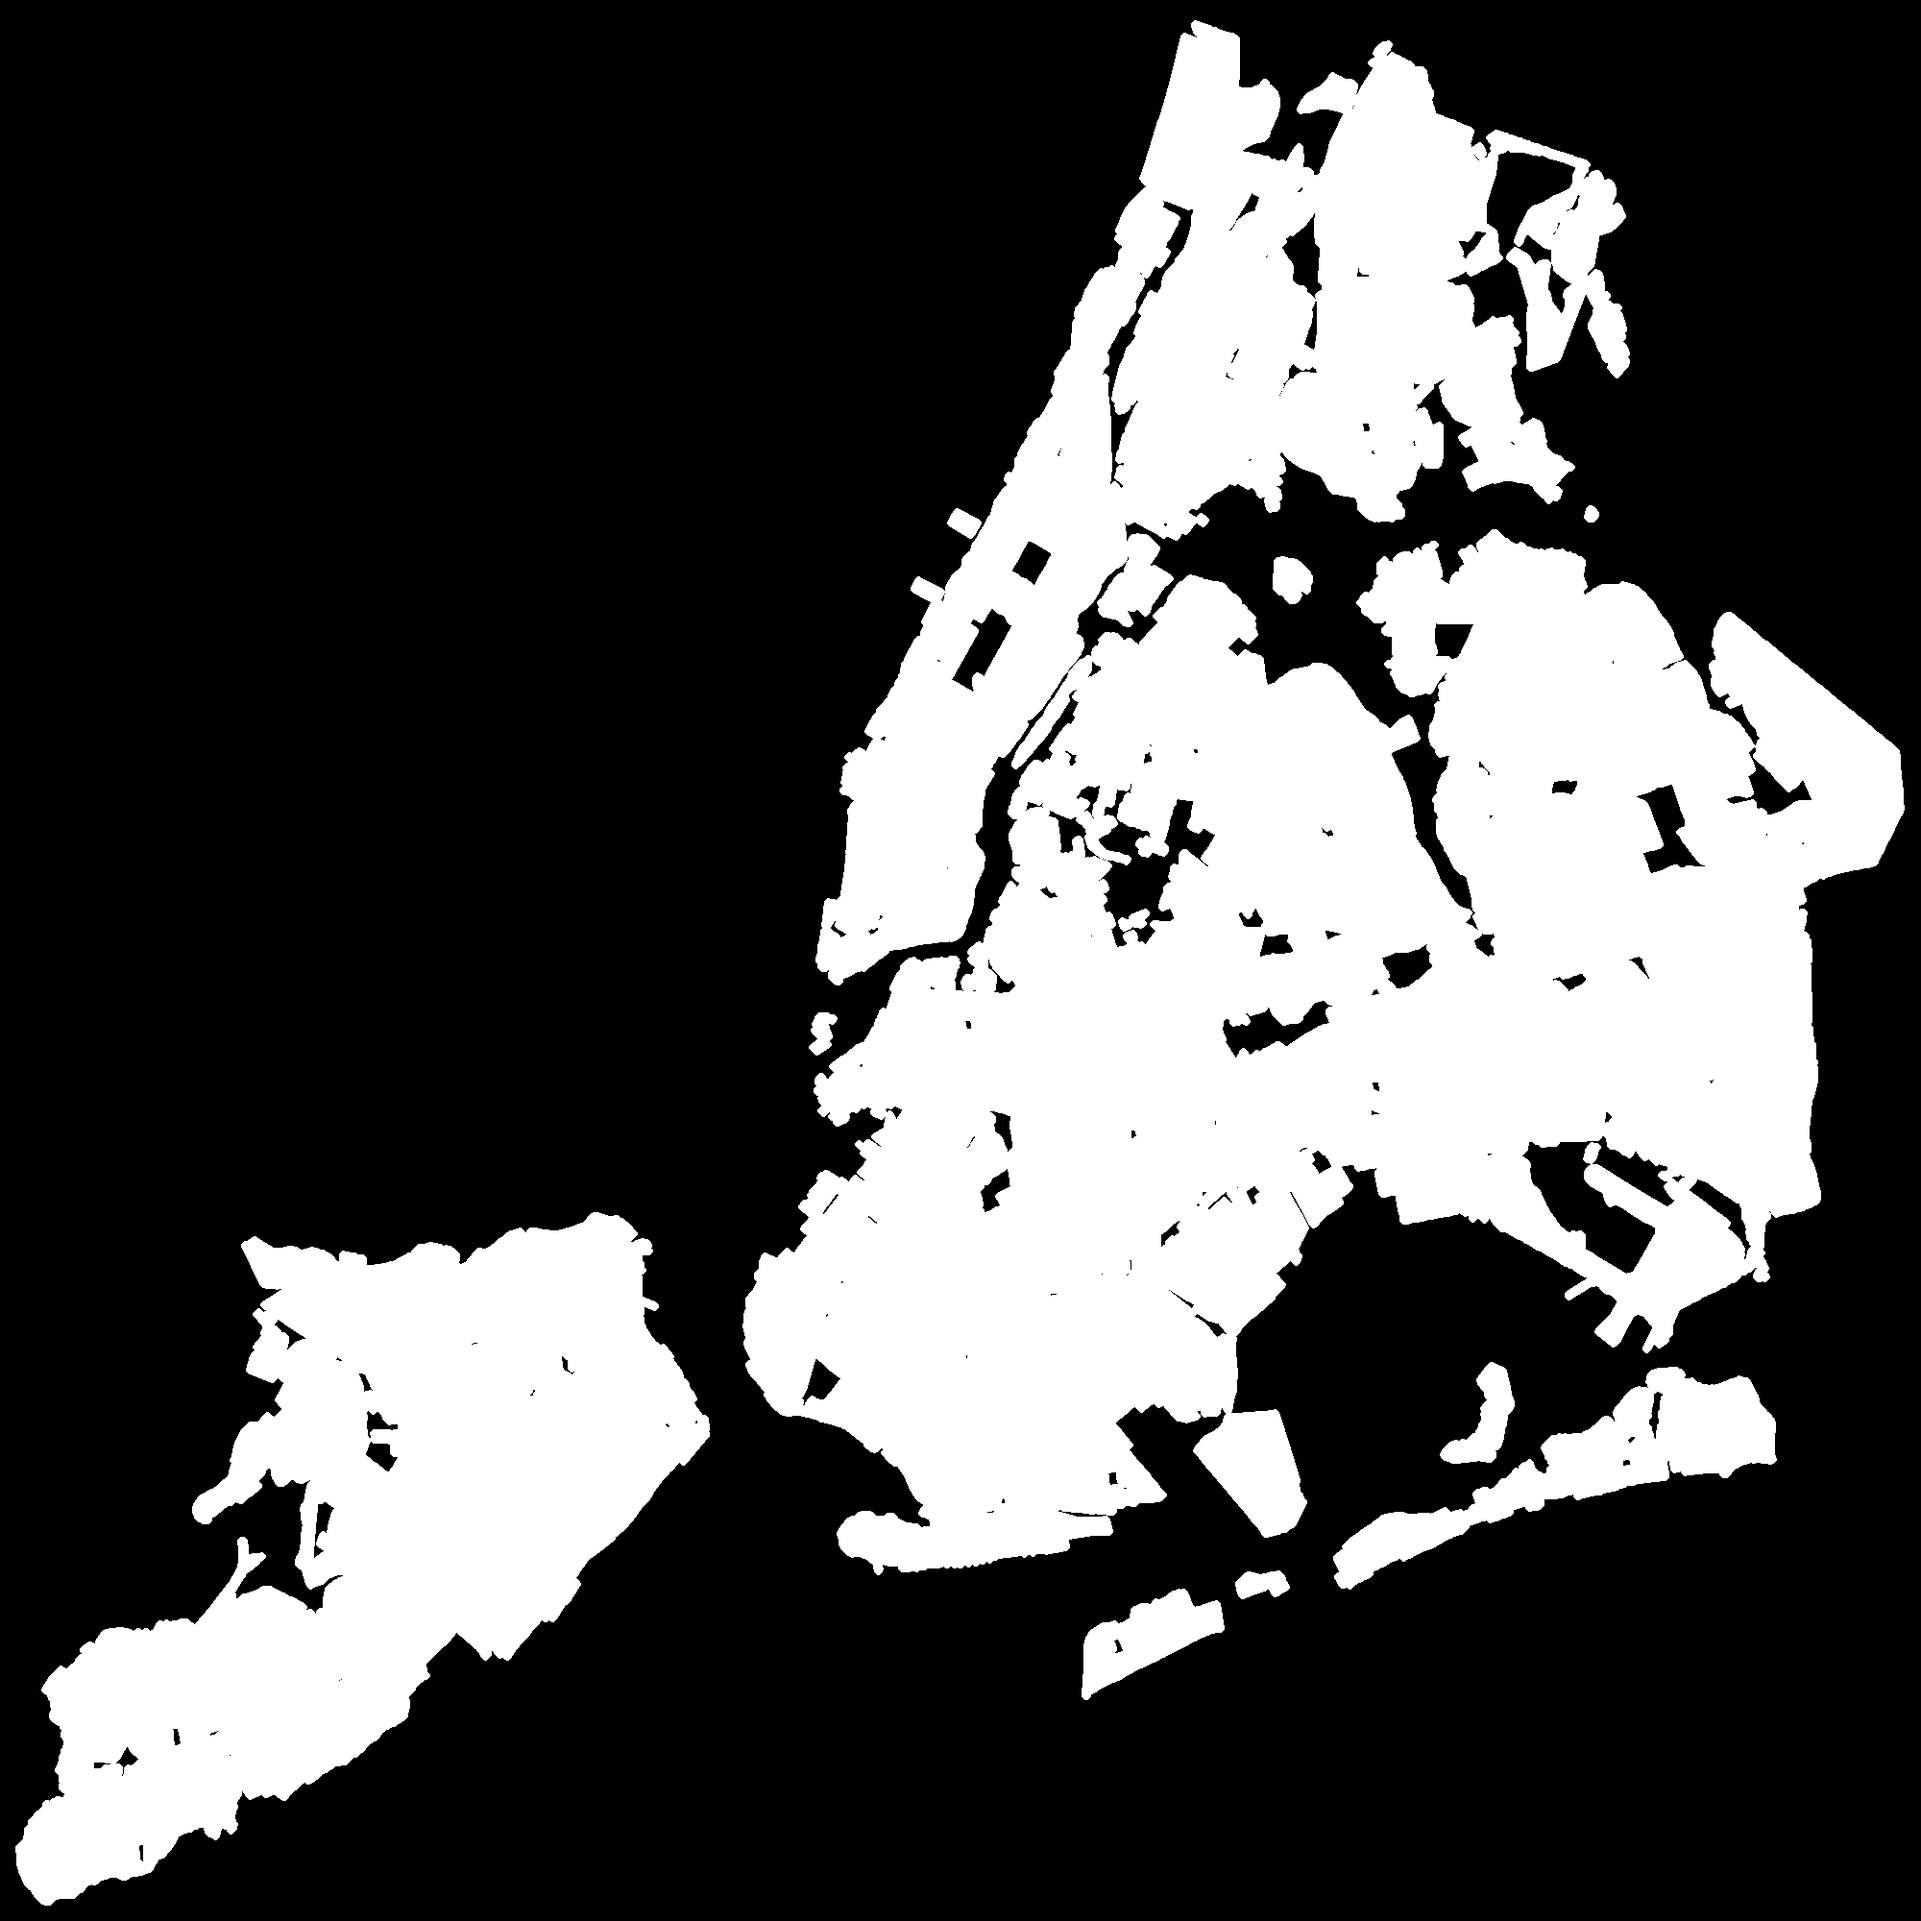
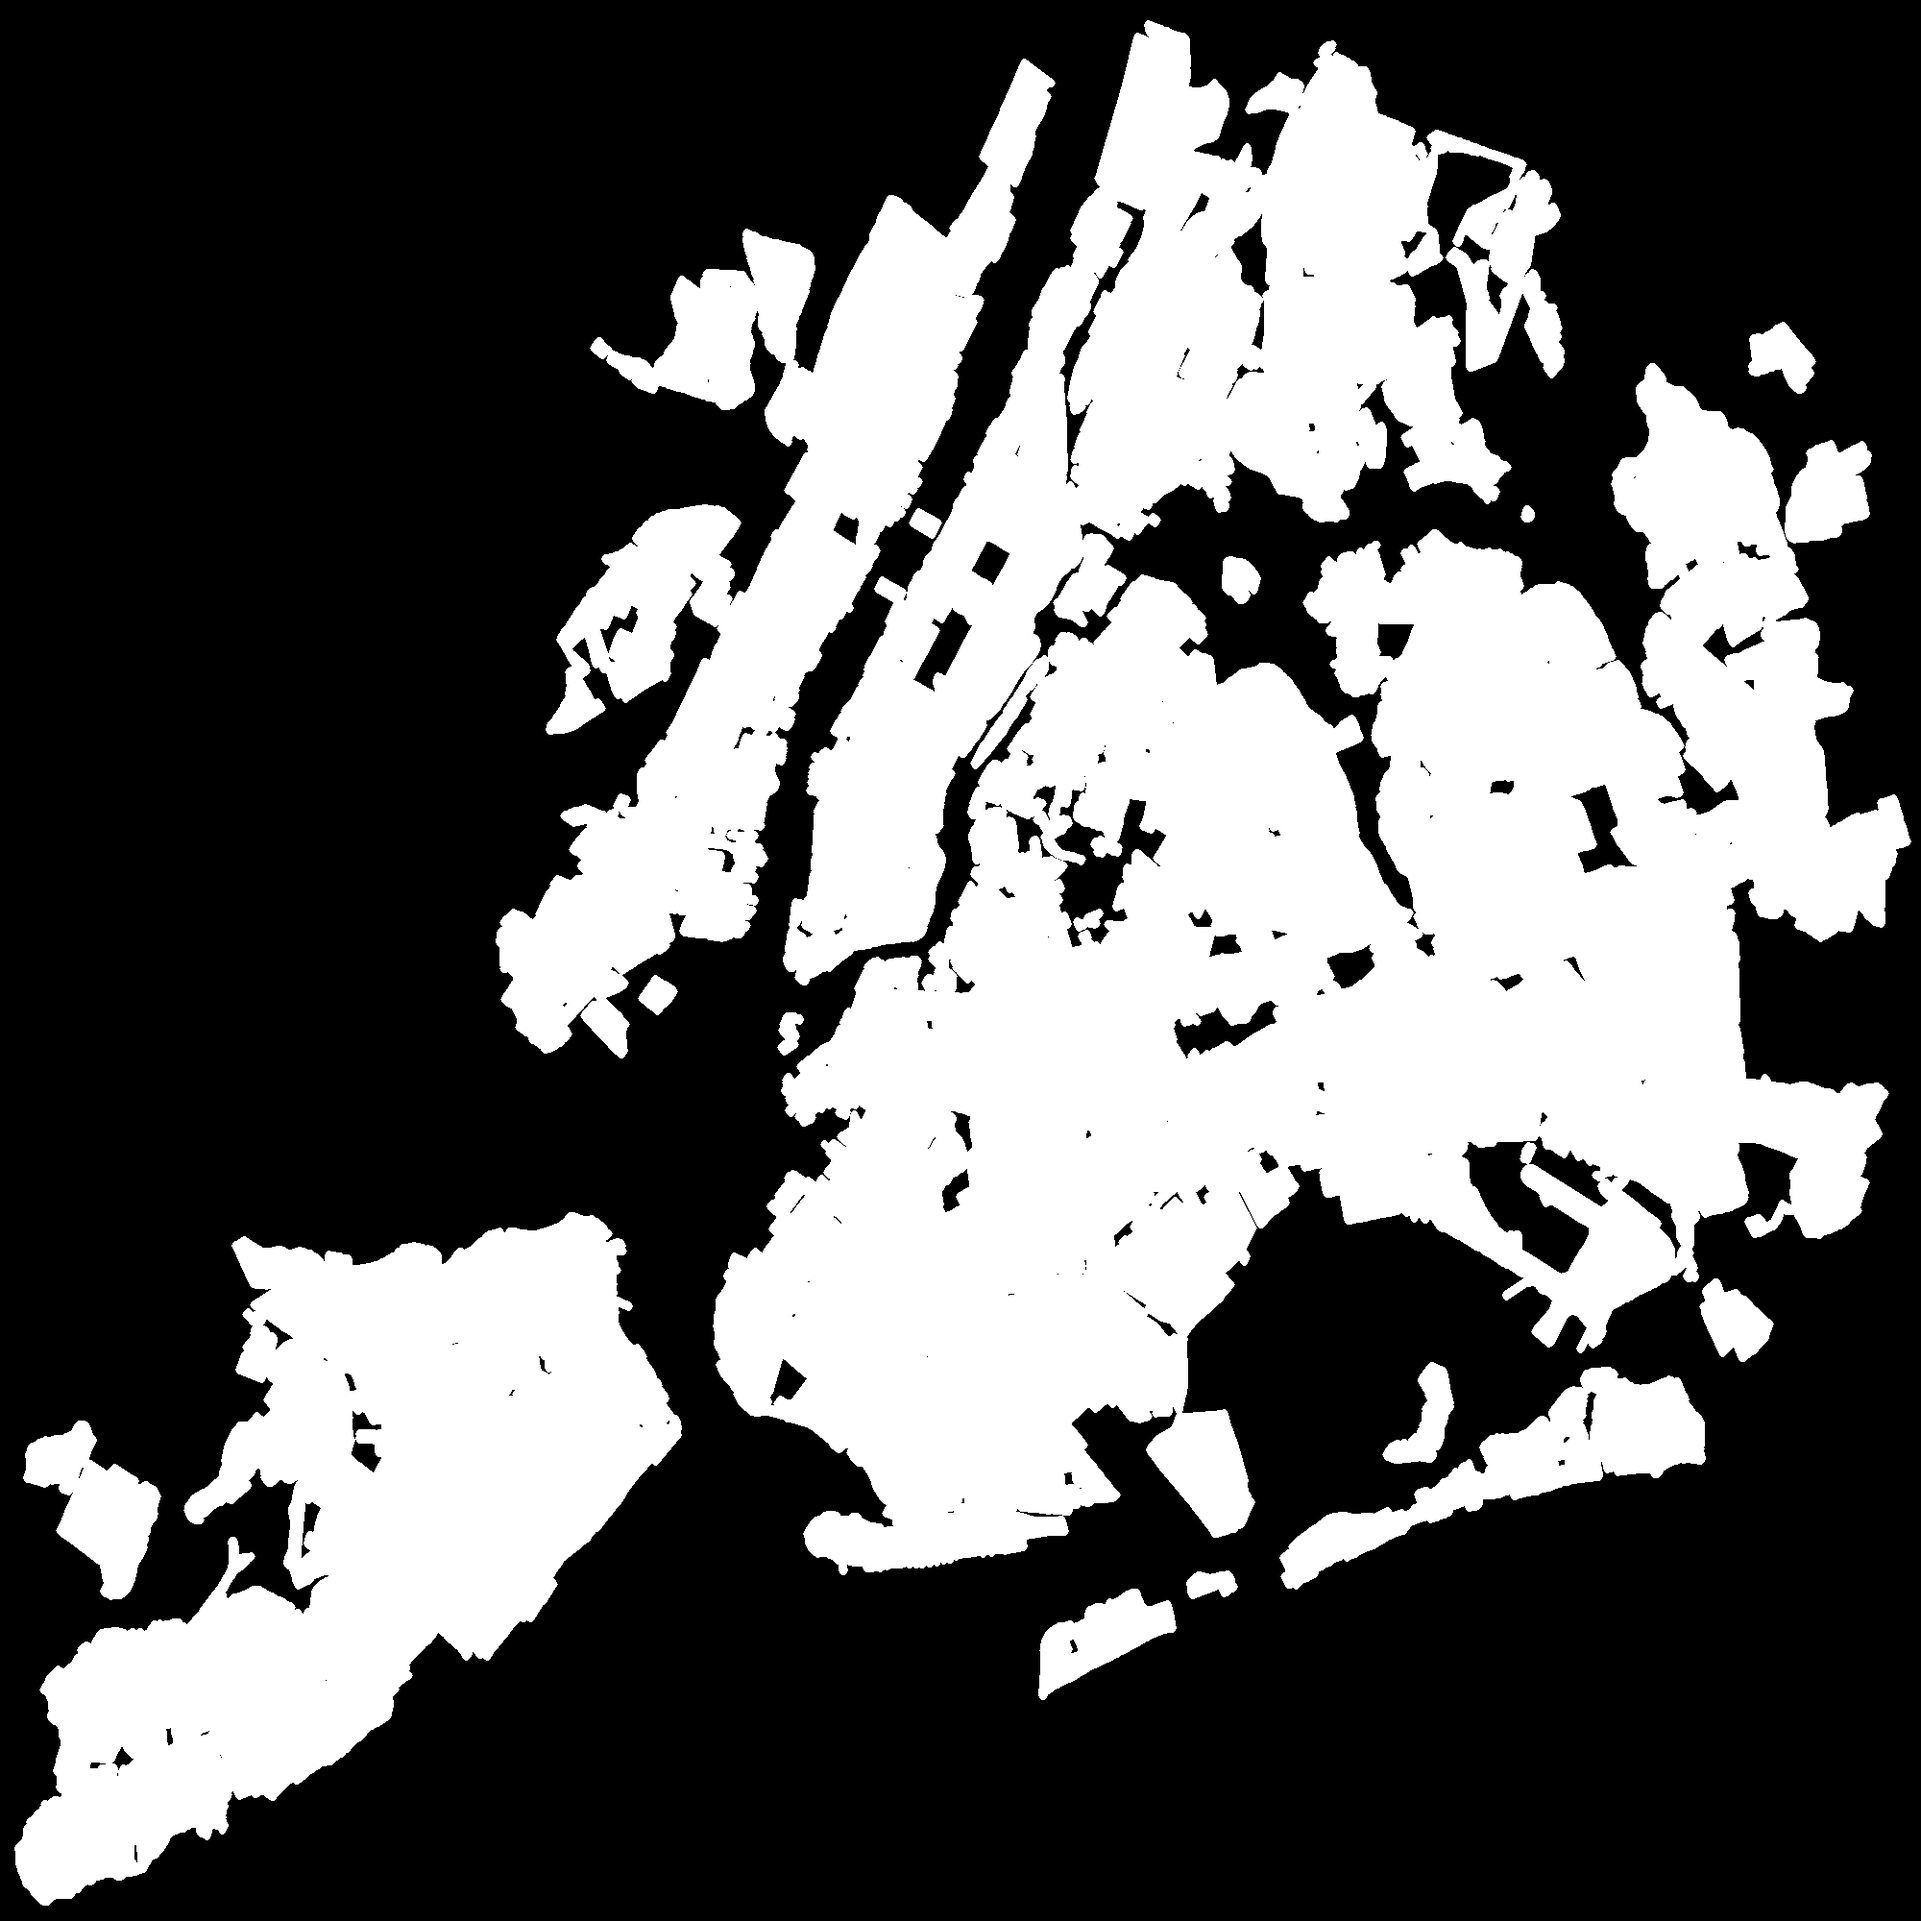
Add the 40 NJ and Nassau municipalities wholly inside the search circles to the NYC map

diff --git a/nyc/build_areas.py b/nyc/build_areas.py
@@ -1,0 +1,147 @@
+"""Write cities/nyc_areas.json: places outside NYC wholly inside the RentCast search circles.
+
+A municipality qualifies when its entire Census boundary, land and water, lies
+inside the union of the circles in collect_config.json, so the monthly queries
+return every listing in it. Candidates are county subdivisions (municipalities
+in NJ; towns and cities in NY) and NY villages. Boundaries are simplified to
+within SIMPLIFY_DEG; housing units come from the 2020 blocks whose interior
+point falls in the area.
+
+usage: python3 -I nyc/build_areas.py --cousub SHP... --villages SHP... --blocks SHP...
+  TIGER/Line 2020 files from https://www2.census.gov/geo/tiger/TIGER2020/:
+  COUSUB/tl_2020_{34,36}_cousub, PLACE/tl_2020_36_place,
+  TABBLOCK20/tl_2020_{34,36}_tabblock20. Requires pyshp.
+"""
+
+import json
+import math
+import os
+import sys
+
+import shapefile
+
+HERE = os.path.dirname(os.path.abspath(__file__))
+ROOT = os.path.dirname(HERE)
+sys.path.insert(0, ROOT)
+
+import city_areas
+
+NYC_COUNTIES = {"36005", "36047", "36061", "36081", "36085"}
+VILLAGE_LSAD = "47"
+STEP_MI = 0.03
+SIMPLIFY_DEG = 0.00003
+EARTH_MI = 3958.8
+OUT = os.path.join(ROOT, "cities", "nyc_areas.json")
+
+
+def miles(lat1, lon1, lat2, lon2):
+    p1, p2 = math.radians(lat1), math.radians(lat2)
+    a = (math.sin((p2 - p1) / 2) ** 2
+         + math.cos(p1) * math.cos(p2) * math.sin(math.radians(lon2 - lon1) / 2) ** 2)
+    return 2 * EARTH_MI * math.asin(math.sqrt(a))
+
+
+def rings(shape):
+    idx = list(shape.parts) + [len(shape.points)]
+    return [[tuple(p) for p in shape.points[a:b]] for a, b in zip(idx, idx[1:])]
+
+
+def wholly_inside(shape, circles):
+    for ring in rings(shape):
+        for (x1, y1), (x2, y2) in zip(ring, ring[1:]):
+            n = max(1, int(miles(y1, x1, y2, x2) / STEP_MI))
+            for k in range(n):
+                lat, lon = y1 + (y2 - y1) * k / n, x1 + (x2 - x1) * k / n
+                if all(miles(lat, lon, c["latitude"], c["longitude"]) > c["radius"] for c in circles):
+                    return False
+    return True
+
+
+def near(bbox, circles):
+    x0, y0, x1, y1 = bbox
+    return any(miles(c["latitude"], c["longitude"], min(max(c["latitude"], y0), y1),
+                     min(max(c["longitude"], x0), x1)) <= c["radius"] for c in circles)
+
+
+def simplify(points):
+    keep = [False] * len(points)
+    keep[0] = keep[-1] = True
+    stack = [(0, len(points) - 1)]
+    while stack:
+        a, b = stack.pop()
+        (ax, ay), (bx, by) = points[a], points[b]
+        dx, dy = bx - ax, by - ay
+        norm = math.hypot(dx, dy)
+        far, far_d = None, SIMPLIFY_DEG
+        for i in range(a + 1, b):
+            px, py = points[i]
+            d = (abs(dy * px - dx * py + bx * ay - by * ax) / norm if norm
+                 else math.hypot(px - ax, py - ay))
+            if d > far_d:
+                far, far_d = i, d
+        if far is not None:
+            keep[far] = True
+            stack += [(a, far), (far, b)]
+    out = [(round(x, 6), round(y, 6)) for (x, y), k in zip(points, keep) if k]
+    return out if len(out) >= 4 else [(round(x, 6), round(y, 6)) for x, y in points]
+
+
+def args(argv):
+    groups, key = {"--cousub": [], "--villages": [], "--blocks": []}, None
+    for a in argv:
+        if a in groups:
+            key = a
+        elif key:
+            groups[key].append(a)
+        else:
+            sys.exit(__doc__)
+    return groups
+
+
+def main(argv):
+    files = args(argv)
+    with open(os.path.join(HERE, "collect_config.json")) as f:
+        circles = list(json.load(f)["circles"].values())
+    areas = []
+    for kind, paths in (("cousub", files["--cousub"]), ("village", files["--villages"])):
+        for path in paths:
+            for sr in shapefile.Reader(path).iterShapeRecords():
+                r = sr.record.as_dict()
+                if r["STATEFP"] + r.get("COUNTYFP", "") in NYC_COUNTIES:
+                    continue
+                if kind == "cousub" and r["COUSUBFP"] == "00000":
+                    continue
+                if kind == "village" and r["LSAD"] != VILLAGE_LSAD:
+                    continue
+                if not near(sr.shape.bbox, circles) or not wholly_inside(sr.shape, circles):
+                    continue
+                areas.append({"geoid": r["GEOID"], "name": r["NAME"],
+                              "state": {"34": "NJ", "36": "NY"}[r["STATEFP"]],
+                              "housing_units": 0,
+                              "label": [round(float(r["INTPTLAT"]), 4), round(float(r["INTPTLON"]), 4)],
+                              "rings": [simplify(ring) for ring in rings(sr.shape)]})
+    for a in areas:
+        xs = [x for ring in a["rings"] for x, _ in ring]
+        ys = [y for ring in a["rings"] for _, y in ring]
+        a["bbox"] = (min(xs), min(ys), max(xs), max(ys))
+    for path in files["--blocks"]:
+        sf = shapefile.Reader(path)
+        names = [f[0] for f in sf.fields[1:]]
+        ilat, ilon, ihu = names.index("INTPTLAT20"), names.index("INTPTLON20"), names.index("HOUSING20")
+        for rec in sf.iterRecords():
+            if rec[ihu] > 0:
+                a = city_areas.find(areas, float(rec[ilon]), float(rec[ilat]))
+                if a:
+                    a["housing_units"] += rec[ihu]
+    areas.sort(key=lambda a: (a["state"], -a["housing_units"]))
+    for a in areas:
+        del a["bbox"]
+        print("%s %-22s %s %7d housing units" % (a["state"], a["name"], a["geoid"], a["housing_units"]))
+    with open(OUT + ".tmp", "w") as f:
+        json.dump({"areas": areas}, f, separators=(",", ":"))
+    os.replace(OUT + ".tmp", OUT)
+    print("wrote %s: %d areas, %d bytes" % (OUT, len(areas), os.path.getsize(OUT)))
+
+
+if __name__ == "__main__":
+    main(sys.argv[1:])
